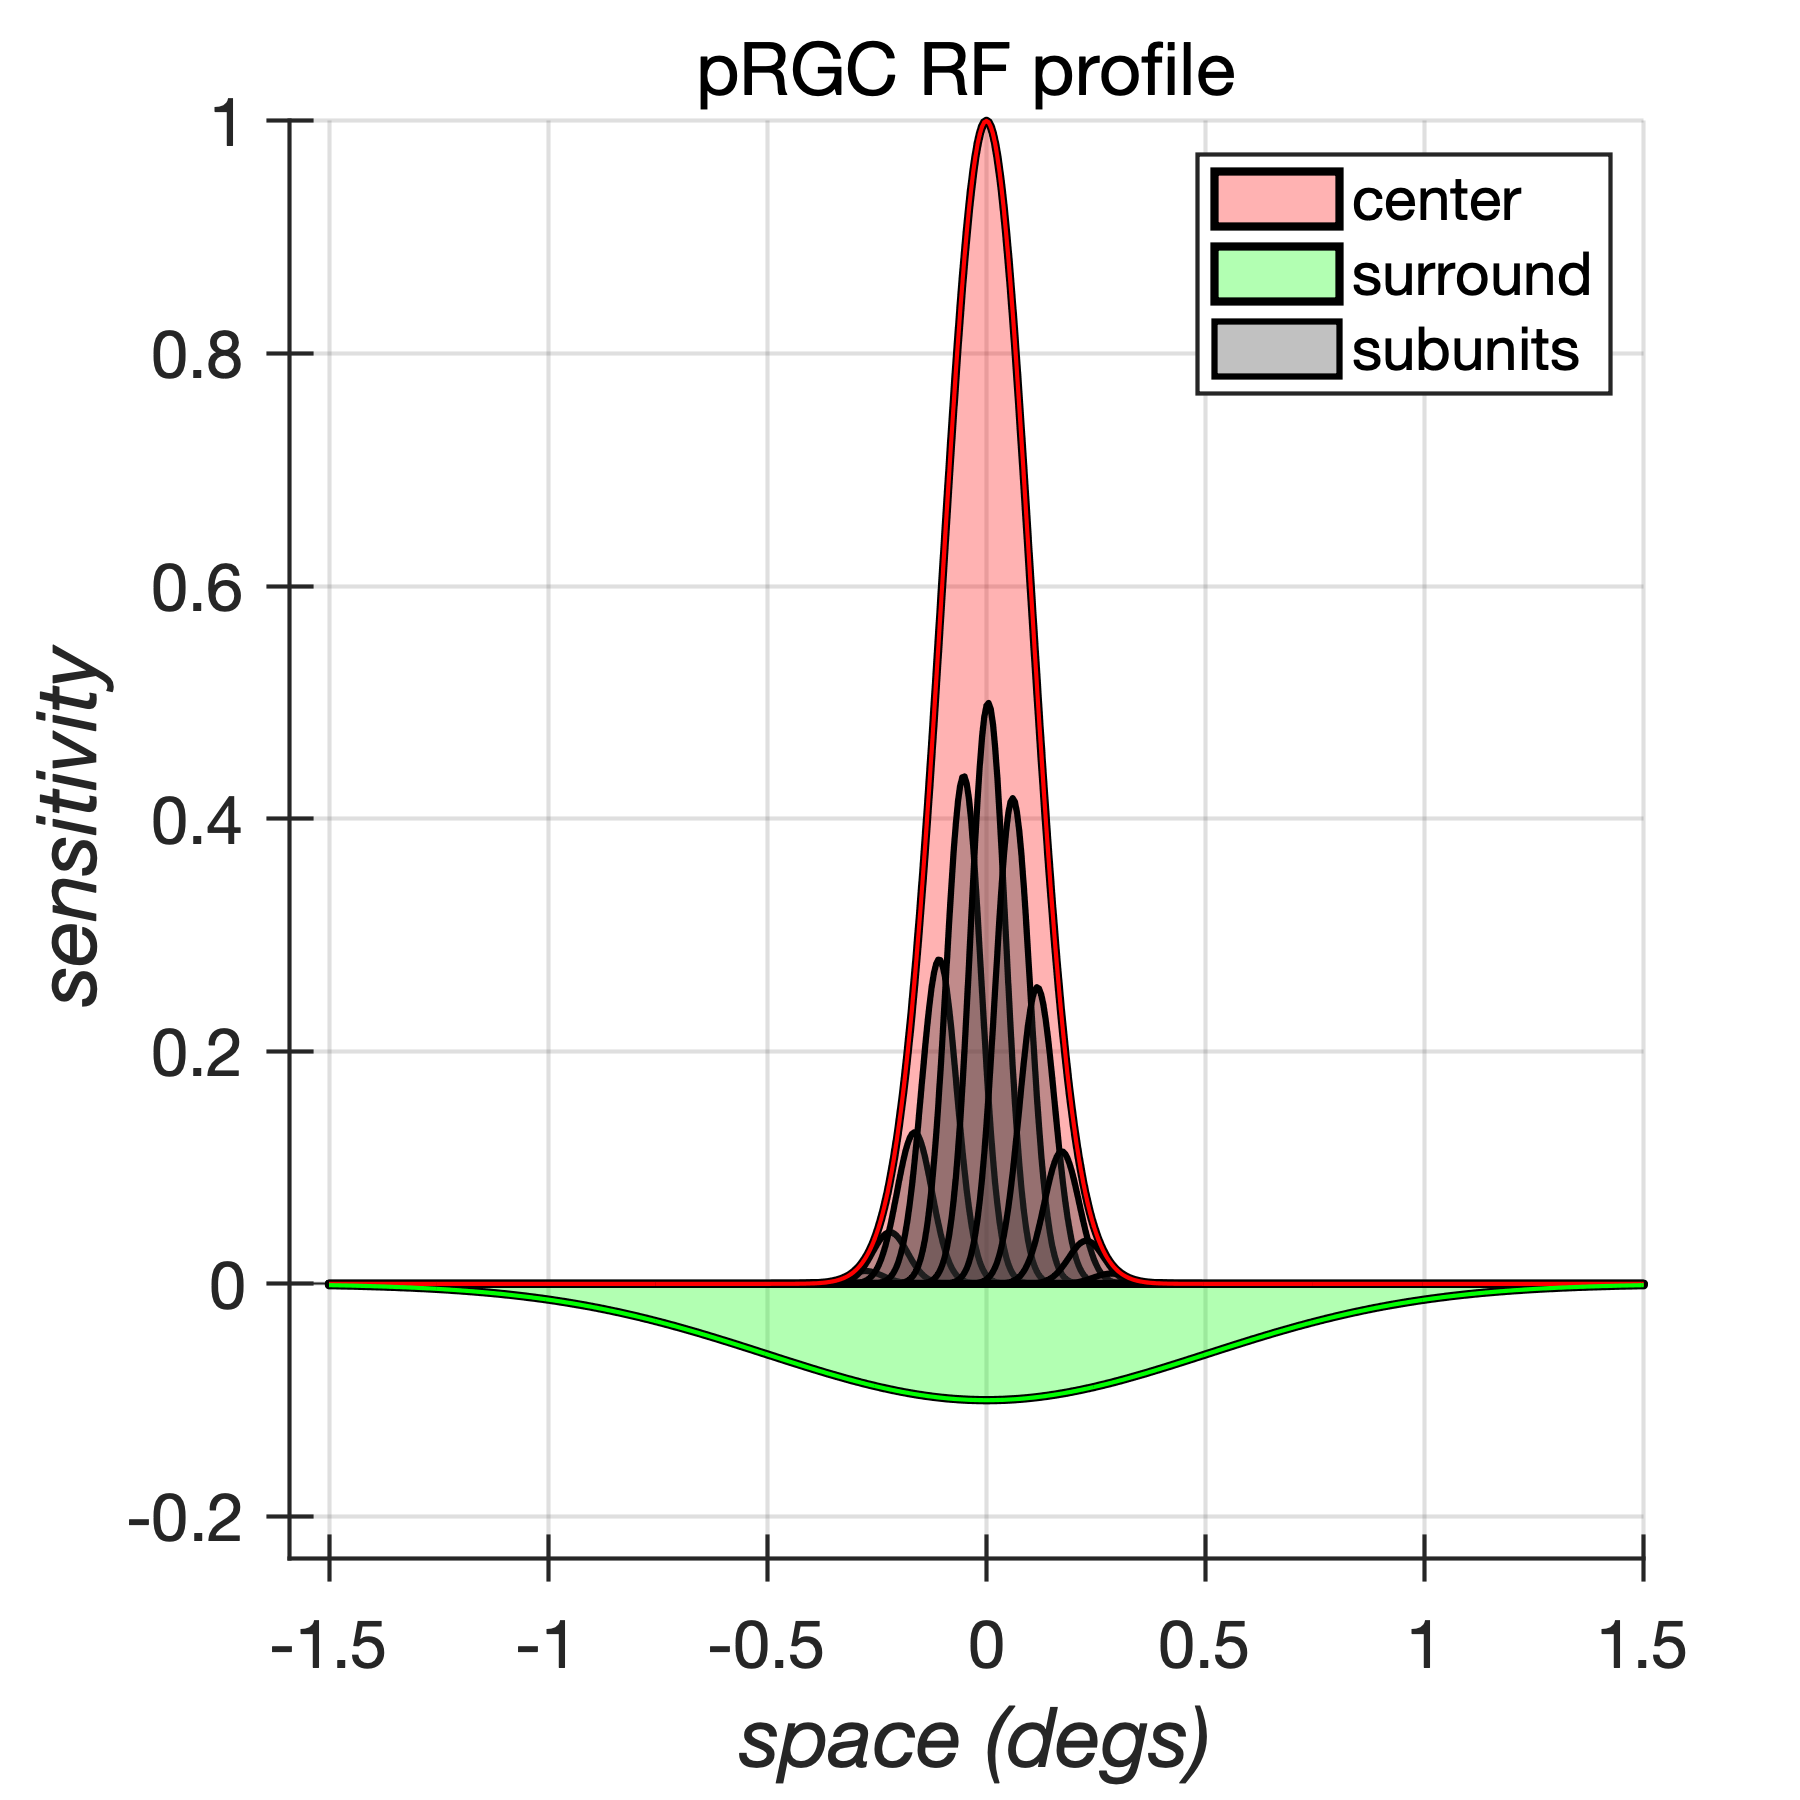
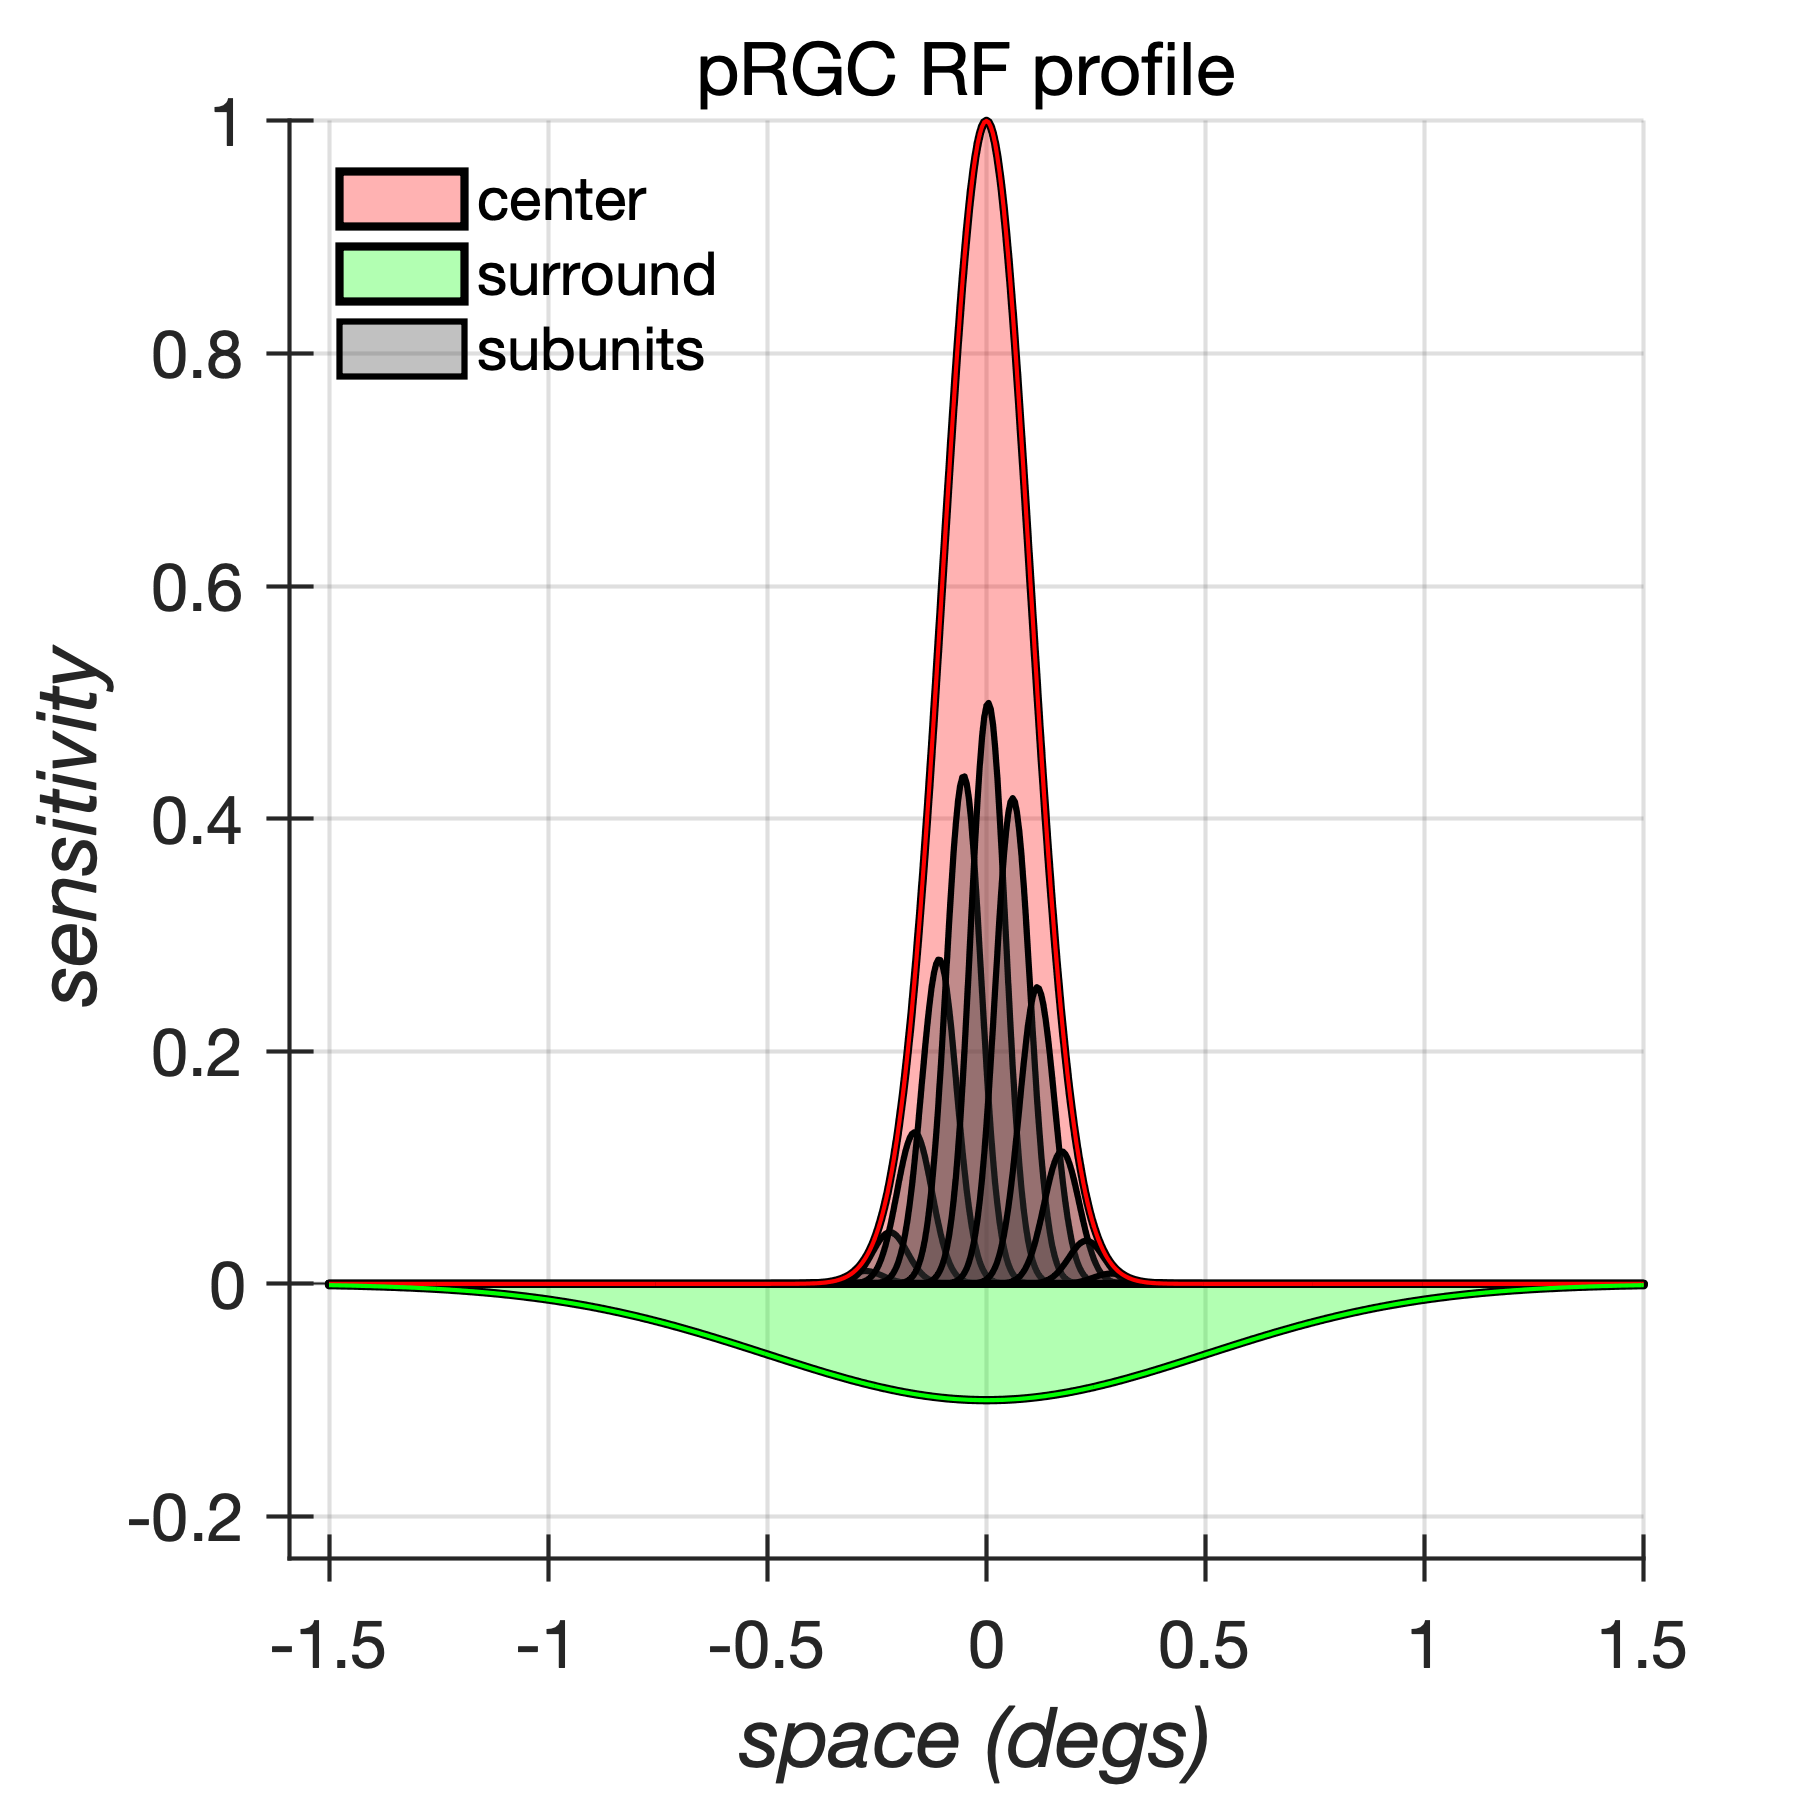
Updates

Changed region(s): [[0.6533, 0.0622, 0.9022, 0.2178], [0.1867, 0.0933, 0.4044, 0.2178]]

diff --git a/tutorials/demoCustomRecipe.m b/tutorials/demoCustomRecipe.m
@@ -21,7 +21,7 @@ function demoCustomRecipe
     plot(space, surroundRFprofile,  'LineStyle', '-');
     
     % Legend
-    legend({'center', 'surround', 'subunits'}, 'Location', 'NorthEast');
+    legend({'center', 'surround', 'subunits'}, 'Location', 'NorthWest');
 
     % Title
     title(sprintf('pRGC RF profile'));
@@ -97,6 +97,7 @@ function myRecipe(colors)
    
    % Boxes
    set(groot, 'defaultAxesBox', 'on');
+   set(groot, 'defaultLegendBox', 'off');
    
    % Figure size
    plotlab.setDefaultFigureSize(...
